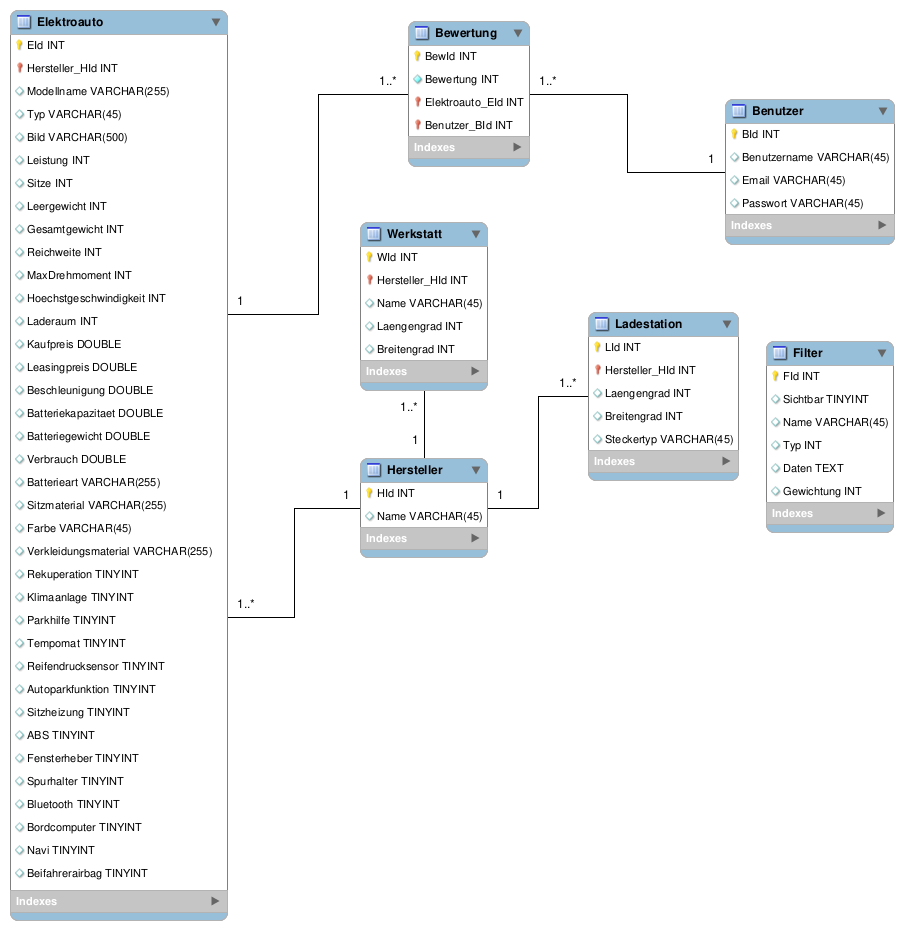
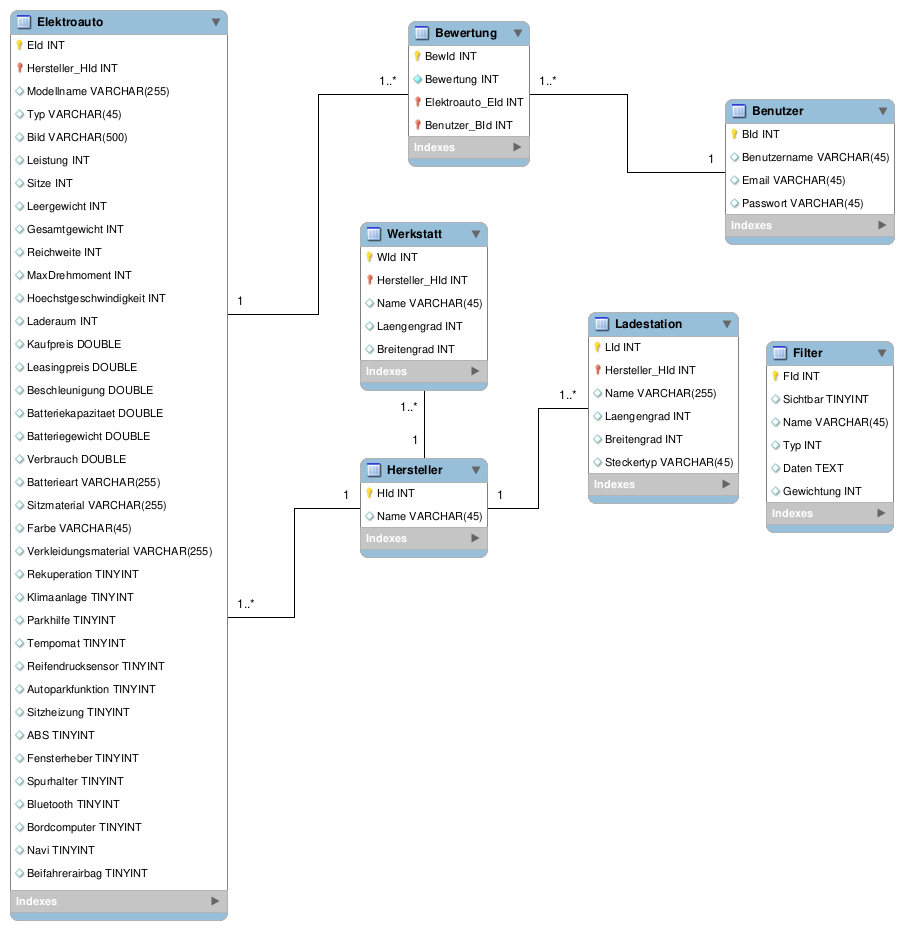
Ladestationen haben jetzt zusätzlich noch einen Namen. Bewertungsmodule ist fertig

Changed region(s): [[0.6504, 0.4054, 0.8363, 0.5613], [0.6195, 0.4054, 0.6504, 0.4366]]

diff --git a/src/server/src/models/rating.js b/src/server/src/models/rating.js
@@ -1,0 +1,44 @@
+const Sequelize = require('sequelize');
+const db = require('../database/database');
+
+module.exports = db.sequelize.define('rating', {
+  id: {
+    type: Sequelize.INTEGER,
+    primaryKey: true,
+    autoIncrement: true,
+    field: 'BewId'
+  },
+  ecar_id: {
+    type: Sequelize.INTEGER,
+    field: 'Elektroauto_EId',
+    references: 'Elektroauto', // <<< Note, its table's name, not object name
+    referencesKey: 'EId'      // <<< Note, its a column name
+  },
+  user_id: {
+    type: Sequelize.INTEGER,
+    field: 'Benutzer_BId',
+    references: 'Benutzer', // <<< Note, its table's name, not object name
+    referencesKey: 'BId'      // <<< Note, its a column name
+  }
+}, {
+  // don't add the timestamp attributes (updatedAt, createdAt)
+  timestamps: false,
+
+  // don't delete database entries but set the newly added attribute deletedAt
+  // to the current date (when deletion was done). paranoid will only work if
+  // timestamps are enabled
+  paranoid: true,
+
+  // if true:
+  // don't use camelcase for automatically added attributes but underscore style
+  // so updatedAt will be updated_at
+  underscored: false,
+
+  // disable the modification of tablenames; By default, sequelize will automatically
+  // transform all passed model names (first parameter of define) into plural.
+  // if you don't want that, set the following
+  freezeTableName: true,
+
+  // define the table's name
+  tableName: 'Bewertung'
+});
